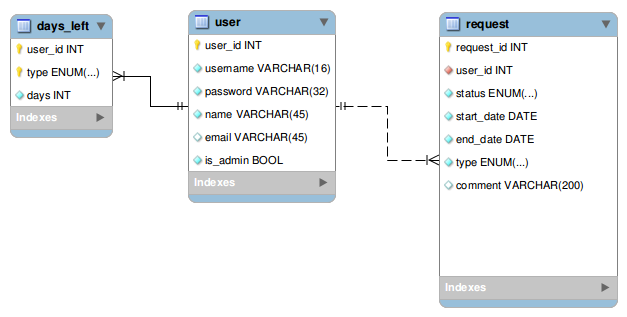
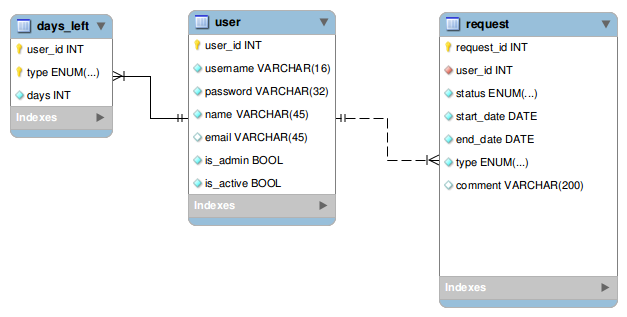
Updated used to have a field is_active. Fixed models.

diff --git a/mvc/application/models/User.php b/mvc/application/models/User.php
@@ -8,7 +8,7 @@ class User {
 	{
 		try {
 			$conn = new PDO('mysql:host=' . DB_SERVER . ';dbname='.DB_NAME, DB_USERNAME, DB_PASSWORD);
-			$sql     = "SELECT * FROM user WHERE username = ? AND password = ?";
+			$sql     = "SELECT * FROM user WHERE username = ? AND password = ? AND is_active = 1";
 			$query   = $conn->prepare($sql);
 			$result = $query->execute(array($username, $password));
 			$arr = $query->fetch(PDO::FETCH_ASSOC);
@@ -27,7 +27,7 @@ class User {
 		$conn = new PDO('mysql:host=' . DB_SERVER . ';dbname='.DB_NAME, DB_USERNAME, DB_PASSWORD);
 		$conn->beginTransaction();
 
-		$sql = 'INSERT INTO user (username, password, name, email, is_admin) VALUES (?, ?, ?, ?, ?)';
+		$sql = 'INSERT INTO user (username, password, name, email, is_admin, is_active) VALUES (?, ?, ?, ?, ?, 1)';
 		$sth = $conn->prepare($sql);
 		$sth->execute(array($username, $password, $name, $email, $type));
 
@@ -38,7 +38,7 @@ class User {
             $conn = new PDO('mysql:host=' . DB_SERVER . ';dbname='.DB_NAME, DB_USERNAME, DB_PASSWORD);
             $conn->beginTransaction();
 
-            $sql = 'DELETE FROM user WHERE user_id = ?';
+            $sql = 'UPDATE user SET is_active = 0 WHERE user_id = ?';
             $sth = $conn->prepare($sql);
             $sth->execute(array($user_id));
 
@@ -49,7 +49,7 @@ class User {
 	{
 		try {
 			$conn = new PDO('mysql:host=' . DB_SERVER . ';dbname='.DB_NAME, DB_USERNAME, DB_PASSWORD);
-			$sql     = "SELECT * FROM user";
+			$sql     = "SELECT * FROM user WHERE is_active = 1";
 			$query   = $conn->prepare($sql);
 			$result = $query->execute();
 			$arr = $query->fetchAll(PDO::FETCH_ASSOC);
